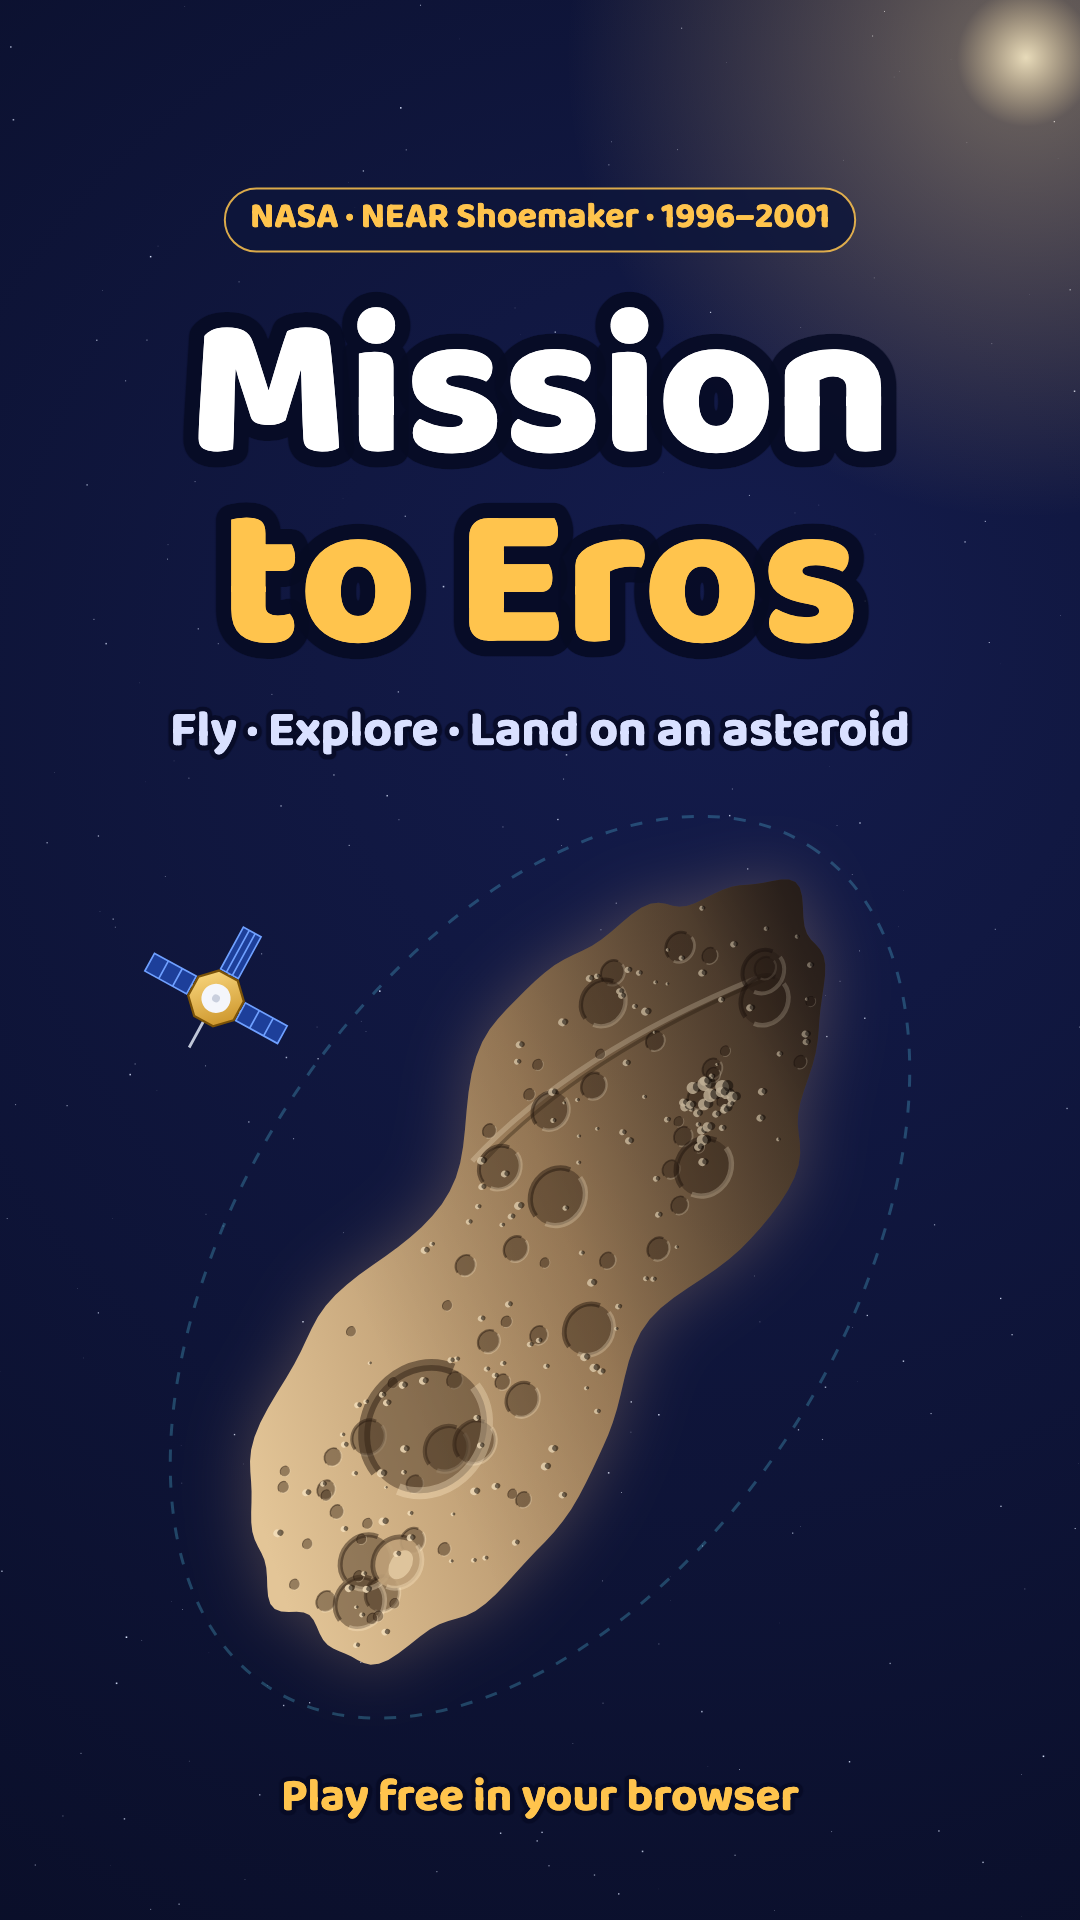
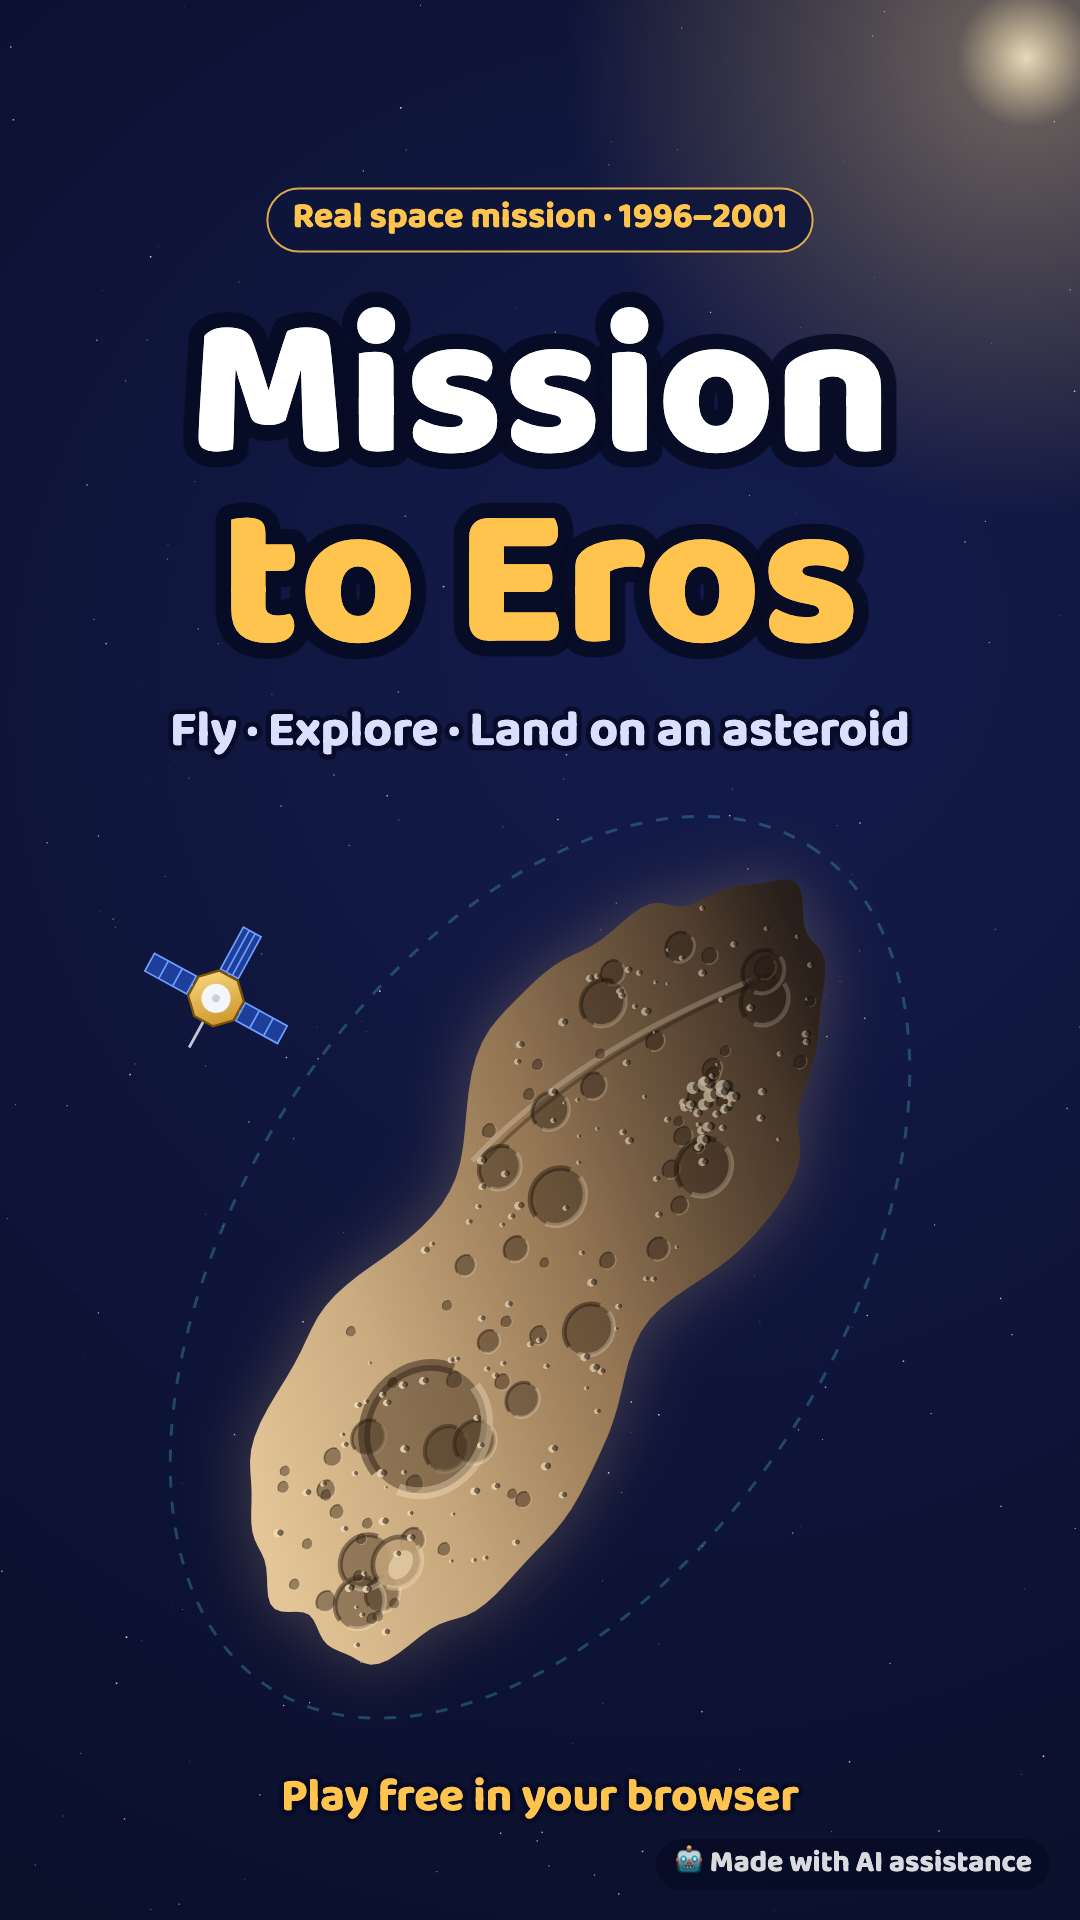
adjust to requirements

Changed region(s): [[0.2139, 0.0938, 0.7944, 0.1562], [0.7944, 0.9688, 0.9472, 1.0], [0.6111, 0.9688, 0.7639, 1.0]]

diff --git a/index.html b/index.html
@@ -5,6 +5,8 @@
 <meta name="viewport" content="width=device-width,initial-scale=1">
 <title>Mission to Eros</title>
 <meta name="description" content="Guide NASA's NEAR Shoemaker spacecraft to the asteroid Eros, explore it and try to land — a free space game for kids.">
+<!-- Built with AI assistance (JetBrains Junie, Claude Code): code, Ukrainian translation, in-game art and cover images. See README.md, "How AI was used". -->
+<meta name="ai-disclosure" content="Built with AI assistance: code, translation, in-game art and cover images (JetBrains Junie, Claude Code). See README.md.">
 <meta property="og:type" content="website">
 <meta property="og:title" content="Mission to Eros">
 <meta property="og:description" content="Guide NASA's NEAR Shoemaker spacecraft to the asteroid Eros, explore it and try to land — a free space game for kids.">
@@ -167,7 +169,7 @@ const I18N = {
     // title
     titleCard:`<div class="kicker">A NASA-inspired space adventure</div><h1>Mission to Eros</h1>
     <p>Fly the real <b>NEAR Shoemaker</b> spacecraft to a giant space rock, explore its craters and boulders, and try to <b>land on an asteroid</b> — just like NASA did in 2001!</p>
-    <p style="font-size:15px;color:#a9b4dd">3 stages · about 5 minutes · keyboard, mouse or touch</p>
+    <p style="font-size:15px;color:#a9b4dd">3 stages · about 5 minutes · keyboard, mouse or touch<br>🤖 Made with AI assistance — code, translation and art</p>
     <div class="jump">Demo shortcuts: <a href="#" data-j="2" style="color:#5ee0ff">Stage 2</a> · <a href="#" data-j="3" style="color:#5ee0ff">Stage 3</a></div>`,
     startBtn:'Start mission 🚀'
   },
@@ -249,7 +251,7 @@ const I18N = {
     // title
     titleCard:`<div class="kicker">Космічна пригода за мотивами місії NASA</div><h1>Місія до Ероса</h1>
     <p>Керуй справжнім апаратом <b>NEAR Shoemaker</b>: долети до велетенського космічного каменя, досліди його кратери й валуни та спробуй <b>сісти на астероїд</b> — так, як це зробили в NASA у 2001 році!</p>
-    <p style="font-size:15px;color:#a9b4dd">3 етапи · близько 5 хвилин · клавіатура, мишка або дотик</p>
+    <p style="font-size:15px;color:#a9b4dd">3 етапи · близько 5 хвилин · клавіатура, мишка або дотик<br>🤖 Створено з допомогою ШІ — код, переклад і графіка</p>
     <div class="jump">Швидкий перехід: <a href="#" data-j="2" style="color:#5ee0ff">Етап 2</a> · <a href="#" data-j="3" style="color:#5ee0ff">Етап 3</a></div>`,
     startBtn:'Почати місію 🚀'
   }

diff --git a/tools/covers/covers.js b/tools/covers/covers.js
@@ -36,7 +36,7 @@ const COVERS = [
     ctx.beginPath(); ctx.ellipse(W*.7,H*.56,W*.3,H*.3,-.3,0,7); ctx.stroke(); ctx.setLineDash([]);
     drawEros(W*.7,H*.56,W*.26,-.35,true);
     drawNEAR(W*.47,H*.25,34,.5,0);
-    pill('NASA · NEAR Shoemaker · 1996–2001',64,110);
+    pill('Real space mission · 1996–2001',64,110);
     title('Mission',60,250,128); title('to Eros',60,375,128,'left','#ffc44d');
     sub('Fly · Explore · Land on an asteroid',64,450,36);
   },
@@ -93,18 +93,25 @@ const COVERS = [
     ctx.beginPath(); ctx.ellipse(W*.5,H*.66,500,300,-1,0,7); ctx.stroke(); ctx.setLineDash([]);
     drawEros(W*.5,H*.66,440,-1,true);
     drawNEAR(W*.2,H*.52,56,.5,0);
-    pill('NASA · NEAR Shoemaker · 1996–2001',W/2,220,36,'center');
+    pill('Real space mission · 1996–2001',W/2,220,36,'center');
     title('Mission',W/2,450,200,'center'); title('to Eros',W/2,640,200,'center','#ffc44d');
     sub('Fly · Explore · Land on an asteroid',W/2,745,50,'center');
     sub('Play free in your browser',W/2,1810,46,'center','#ffc44d');
   }
 ];
 const SIZES = {6:[1080,1920]};
+// visible SI/AI disclosure required by the NASA Space Apps rules for generated images
+function watermark(){
+  const s=H>W?30:18, txt='🤖 Made with AI assistance';
+  ctx.font=F(700,s); const w=ctx.measureText(txt).width+s*1.2, h=s*1.7, x=W-w-s, y=H-h-s;
+  ctx.fillStyle='rgba(7,11,36,.75)'; ctx.beginPath(); ctx.roundRect(x,y,w,h,h/2); ctx.fill();
+  ctx.fillStyle='rgba(255,255,255,.85)'; ctx.textAlign='left'; ctx.textBaseline='middle'; ctx.fillText(txt,x+s*.6,y+h/2+1); ctx.textBaseline='alphabetic';
+}
 (async()=>{
   await Promise.all([document.fonts.load(F(800,80)), document.fonts.load('800 80px Nunito')]);
   const n=+new URLSearchParams(location.search).get('cover')||1;
   [W,H]=SIZES[n]||[1200,630]; cv.width=W; cv.height=H; ctx.setTransform(1,0,0,1,0,0); // exact size, whatever the window is
-  COVERS[n-1]();
+  COVERS[n-1](); watermark();
   // freeze the result: a later resize() would clear the canvas
   const img=new Image(); img.src=cv.toDataURL('image/png');
   img.style.cssText=`position:fixed;left:0;top:0;width:${W}px;height:${H}px;z-index:9`;

diff --git a/README.md b/README.md
@@ -1,0 +1,41 @@
+# Mission to Eros
+
+A free browser game for kids about NEAR Shoemaker, the first spacecraft to orbit an asteroid (433 Eros, 2000) and the first to land on one (2001).
+
+**Play:** https://bogdan-srk.github.io/mission-to-eros/ · Ukrainian version: [`?language=ua`](https://bogdan-srk.github.io/mission-to-eros/?language=ua)
+
+![Mission to Eros cover](cover.png)
+
+## The game
+
+Three stages, about 5 minutes, works with keyboard, mouse or touch:
+
+1. **Approach Eros:** launch from Cape Canaveral (February 1996), fly past the asteroid Mathilde and swing around Earth. Collect science flasks to speed up and unlock facts.
+2. **Explore:** scan six real surface features of Eros: Psyche crater, the Himeros saddle, a boulder field, the long ridge, dust ponds and its very weak gravity.
+3. **Land:** touch down gently in the landing zone, like NEAR did on 12 February 2001.
+
+## Tech
+
+- **One file, [index.html](index.html):** HTML, CSS and plain JavaScript, with no frameworks and no image or sound files.
+- **Graphics and sound:** all graphics are drawn in code with Canvas 2D; sound effects are generated with the Web Audio API.
+- **Languages:** English by default, Ukrainian with `?language=ua`.
+- **Hosting and analytics:** hosted on GitHub Pages; visits are counted with GoatCounter, which uses no cookies.
+- **Share images:** [tools/covers/render.sh](tools/covers/render.sh) draws the share images with the game's own drawing code, using Bash, headless Google Chrome and Python.
+
+To run it locally, open `index.html` in a browser, or run `python3 -m http.server` and open http://localhost:8000.
+
+## How AI was used
+
+This project was built with help from AI assistants: JetBrains Junie, and Claude Code by Anthropic.
+
+| Area | What AI helped with |
+|---|---|
+| Coding, debugging, troubleshooting | Game code, the launch animation, analytics, the cover generator, link-preview fixes |
+| Writing, editing, translation | Game text and facts, the Ukrainian translation, this README |
+| Visual design and image creation | In-game art (drawn by AI-assisted code) and the share images `cover.png` / `cover-mobile.png` |
+| Research | Mission facts: dates, places, the Delta II rocket |
+| Ideation | Cover concepts, feature ideas |
+
+The share images carry a visible **"Made with AI assistance"** watermark. The game's title screen says the same, and `index.html` includes an `ai-disclosure` meta tag.
+
+The author directed the project, chose between options and tested the game.
